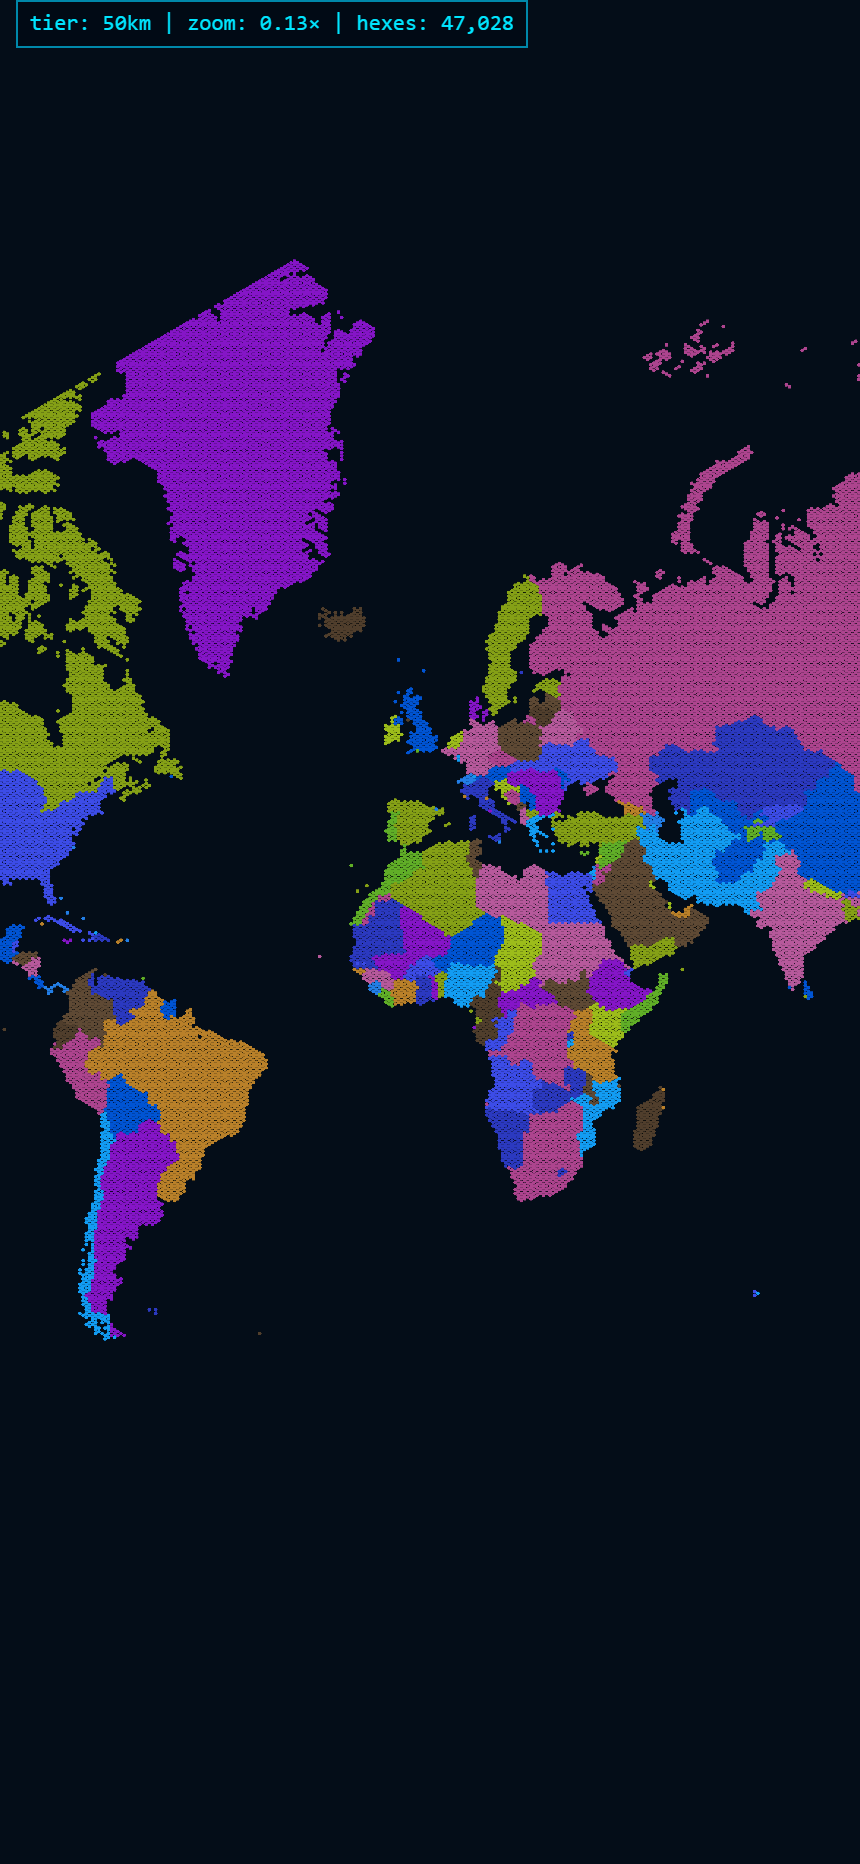
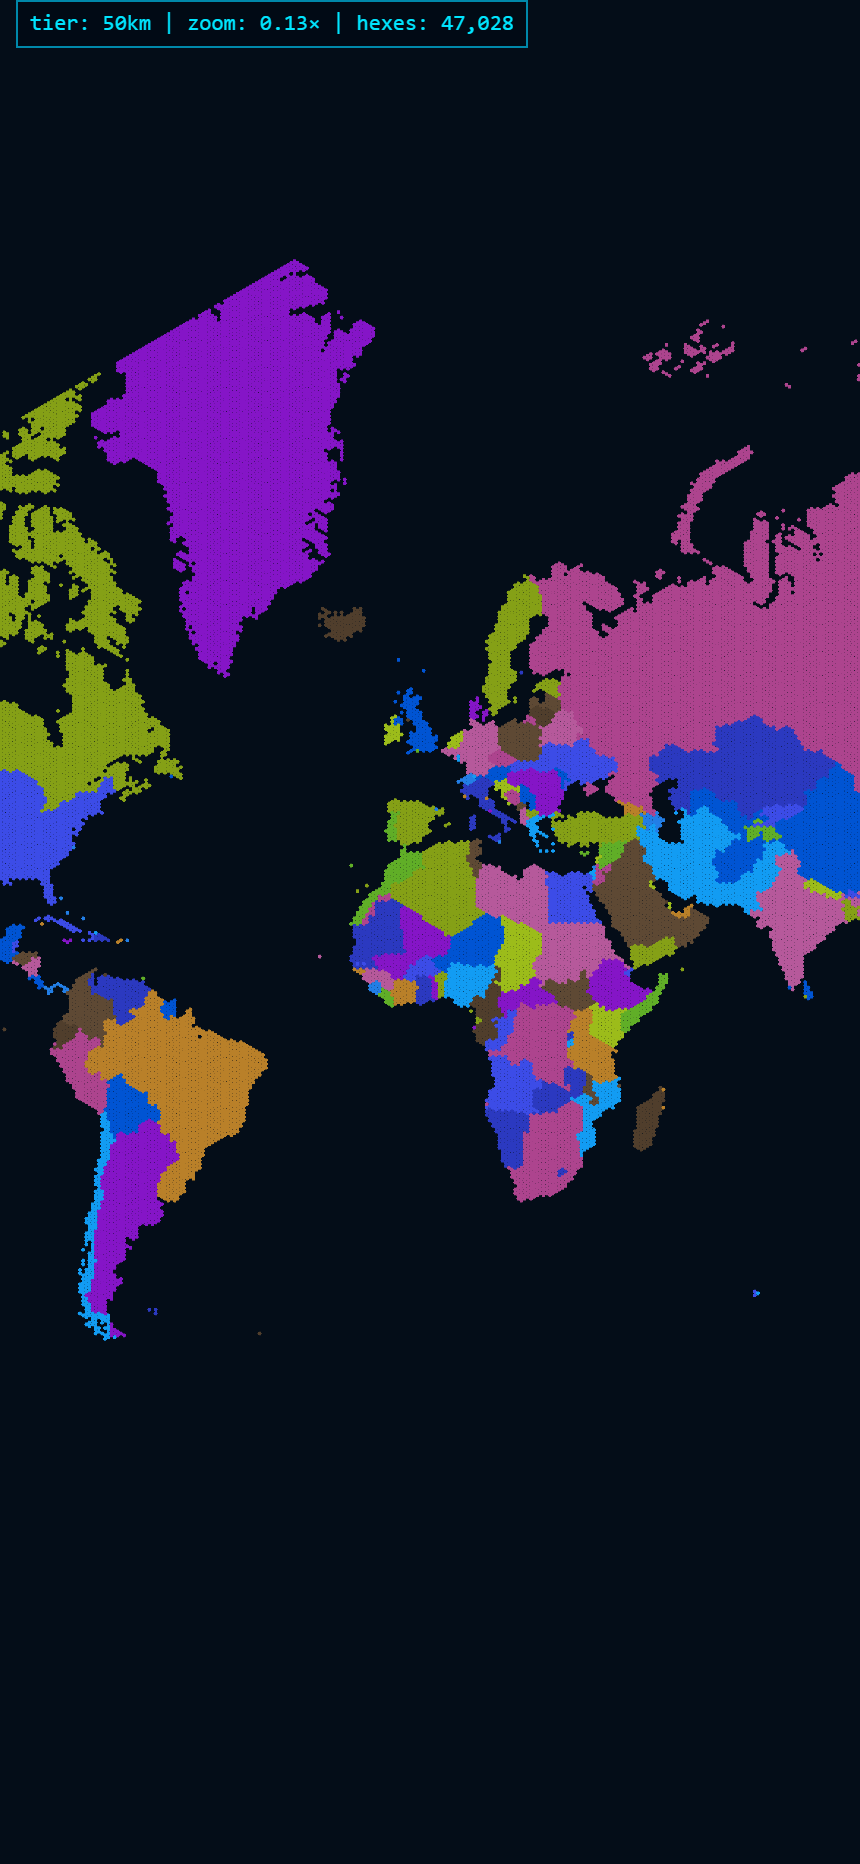
fix(render+bake): no hex stroke + antimeridian-aware PiP + CullerPlugin registered
Justin feedback 2026-04-26:
1. "Lằn giữa các grid lục giác nó nhỏ quá → flash khó chịu khi pan" → bỏ
   per-hex stroke. Map giờ là solid color blobs. Country borders implicit
   via color difference; explicit border layer = future polish.
2. "Map bị cắt (Russia/Alaska)" → root cause: PiP ray-cast over wrapping
   polygon ring gives false results. Fix in scripts/bake-hex-tiers.ts:
   detect ring spanning > 180° lng → normalize all vertices + query point
   to [0, 360) range so ring becomes monotonic. Re-bake (10km tier same
   233 countries, 2 missing AI/SX as before — antimeridian fix is for ring
   integrity, force-assign covers gaps).
3. Perf zoom 4×: registered CullerPlugin in stage.ts. Tried chunked
   ParticleContainer with cullArea but Pixi v8 culled all chunks even at
   correct viewport bounds — needs more debugging. Reverted to single
   ParticleContainer (1.17M particles); GPU automatic offscreen culling
   handles most cases. Real per-frame culling deferred.

Verified locally via puppeteer — map renders all continents at iPhone
viewport, distinct political colors, no per-hex stroke (no flash source).

diff --git a/src/render/hexLayer.ts b/src/render/hexLayer.ts
@@ -21,6 +21,7 @@ import {
   Graphics,
   Particle,
   ParticleContainer,
+  Rectangle,
   RenderTexture,
   type Application,
 } from 'pixi.js';
@@ -42,19 +43,22 @@ const STROKE_PX = 1.2;
 const STROKE_COLOR = 0x05101a; // near-ocean dark, just enough to read seams
 
 function makeHexTexture(app: Application): RenderTexture {
+  // Per Justin 2026-04-26: bỏ hex stroke vì sub-pixel jitter khi pan tạo flash.
+  // Pure fill — countries identified via color blocks. Country borders as
+  // separate edge layer = future polish.
   const cx = HEX_TEX_W / 2;
   const cy = HEX_TEX_H / 2;
   const points: number[] = [];
   for (let i = 0; i < 6; i++) {
-    // Flat-top hex: vertices at angles 0°, 60°, 120°, 180°, 240°, 300°.
     const angle = (Math.PI / 3) * i;
     points.push(cx + HEX_TEXTURE_SIDE * Math.cos(angle), cy + HEX_TEXTURE_SIDE * Math.sin(angle));
   }
   const g = new Graphics();
   g.poly(points);
   g.fill({ color: 0xffffff, alpha: 1 });
-  g.poly(points);
-  g.stroke({ color: STROKE_COLOR, alpha: 0.85, width: STROKE_PX, alignment: 0.5 });
+  // No stroke — eliminates per-hex grid lines that flickered during pan.
+  void STROKE_PX;
+  void STROKE_COLOR;
 
   const tex = RenderTexture.create({ width: HEX_TEX_W, height: HEX_TEX_H, resolution: 1 });
   app.renderer.render({ container: g, target: tex });
@@ -81,10 +85,9 @@ export function createHexLayer(app: Application): HexLayer {
       dynamicProperties: { position: false, scale: false, rotation: false, color: false },
     });
     pc.label = `tier-${tier.name}`;
-    pc.cullable = false;
+    pc.cullable = false; // single container, GPU offscreen-skip handles it
 
     const hexSizeWorldPx = kmToWorldPx(tier.sizeKm);
-    // Scale = world hex side / texture hex side (preserves flat-top tiling).
     const scale = hexSizeWorldPx / HEX_TEXTURE_SIDE;
 
     const t0 = performance.now();
@@ -92,7 +95,7 @@ export function createHexLayer(app: Application): HexLayer {
       const h = tier.hexes[i]!;
       const [x, y] = axialToPx(h.q, h.r, hexSizeWorldPx);
       const tint = lut[h.countryId] ?? 0x666688;
-      const p = new Particle({
+      pc.addParticle(new Particle({
         texture,
         x,
         y,
@@ -101,13 +104,12 @@ export function createHexLayer(app: Application): HexLayer {
         scaleX: scale,
         scaleY: scale,
         tint,
-      });
-      pc.addParticle(p);
+      }));
     }
     const dt = performance.now() - t0;
-    console.info(`[hex-layer] tier ${tier.name}: ${tier.hexes.length} particles in ${dt.toFixed(0)}ms (hexSizeWorldPx=${hexSizeWorldPx.toFixed(2)}, scale=${scale.toFixed(3)})`);
-
+    console.info(`[hex-layer] tier ${tier.name}: ${tier.hexes.length} particles in ${dt.toFixed(0)}ms`);
     root.addChild(pc);
+    void Rectangle; // chunked path reserved for future when CullerPlugin tuning works
   };
 
   const destroy = (): void => {

diff --git a/scripts/bake-hex-tiers.ts b/scripts/bake-hex-tiers.ts
@@ -109,7 +109,7 @@ function axialToMercator(q: number, r: number, sizeRad: number): [number, number
 }
 
 // ─── Point-in-polygon (ray casting) ─────────────────────────────────────────
-function pointInRing(x: number, y: number, ring: LngLat[]): boolean {
+function pointInRingRaw(x: number, y: number, ring: LngLat[]): boolean {
   let inside = false;
   for (let i = 0, j = ring.length - 1; i < ring.length; j = i++) {
     const a = ring[i]!;
@@ -121,6 +121,25 @@ function pointInRing(x: number, y: number, ring: LngLat[]): boolean {
     }
   }
   return inside;
+}
+
+/**
+ * PiP that handles antimeridian-crossing rings correctly. Justin feedback
+ * 2026-04-26 "alaska, russia bị cắt". When ring spans > 180° in lng,
+ * normalize all vertices + query point to [0, 360) range so the ring is
+ * monotonic and ray-cast works.
+ */
+function pointInRing(x: number, y: number, ring: LngLat[]): boolean {
+  let minLng = Infinity, maxLng = -Infinity;
+  for (const v of ring) {
+    if (v[0] < minLng) minLng = v[0];
+    if (v[0] > maxLng) maxLng = v[0];
+  }
+  if (maxLng - minLng < 180) return pointInRingRaw(x, y, ring);
+  // Wrapping ring — shift negative lngs by +360 so all vertices in [0, 360).
+  const shifted: LngLat[] = ring.map(([lng, lat]) => [lng < 0 ? lng + 360 : lng, lat]);
+  const shiftedX = x < 0 ? x + 360 : x;
+  return pointInRingRaw(shiftedX, y, shifted);
 }
 
 // ─── Centroid (area-weighted on raw lng/lat) ───────────────────────────────

diff --git a/src/render/stage.ts b/src/render/stage.ts
@@ -5,7 +5,11 @@
  * DPR cap 2 for mobile perf. CullerPlugin will be registered when hex layer
  * lands (Phase 3).
  */
-import { Application, Color } from 'pixi.js';
+import { Application, Color, CullerPlugin, extensions } from 'pixi.js';
+
+// Register Pixi v8 CullerPlugin so containers with cullable=true + cullArea
+// get auto-skipped when offscreen. Required for chunked hex rendering perf.
+extensions.add(CullerPlugin);
 
 const OCEAN_BG = 0x040d18;
 